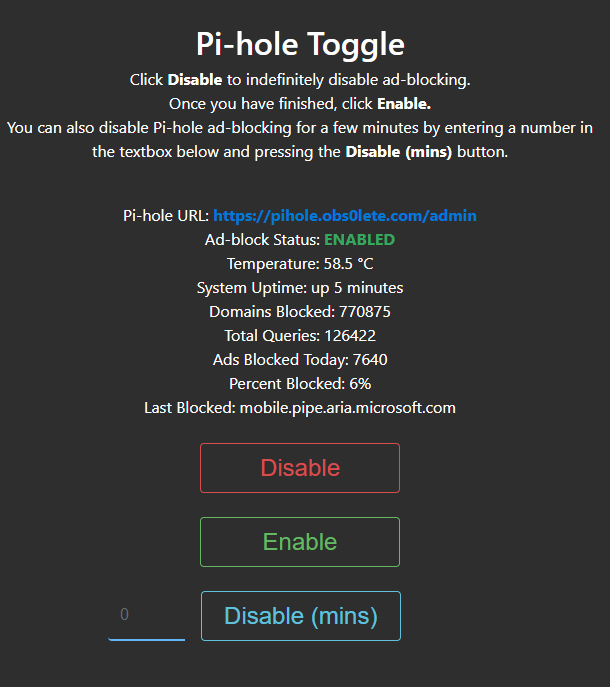
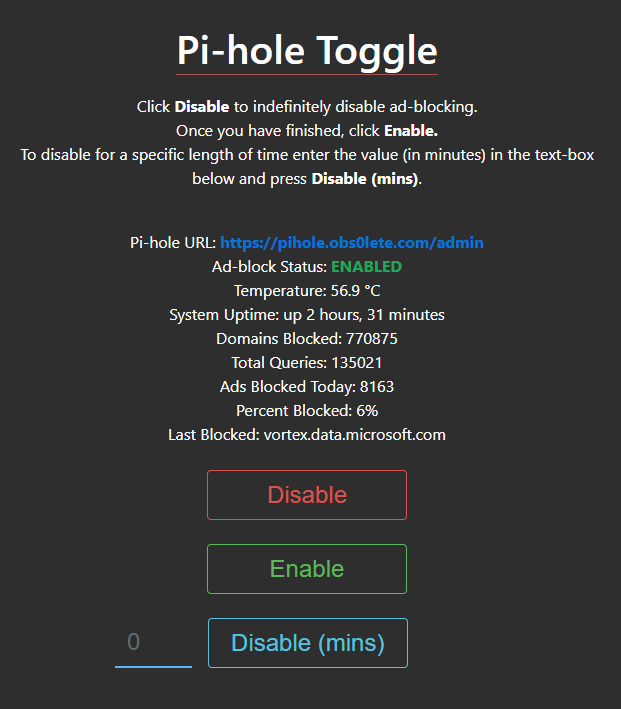
- Added some styling and cleaned-up the text a bit to be simpler.

diff --git a/css/style.css b/css/style.css
@@ -3,6 +3,11 @@ body {
   background-color: #2e2e2e;
 }
 
+.h1, h1 {
+border-bottom: 1px solid #a55151;
+display: inline;
+}
+
 .col-md-4 {
   margin: 0 auto;
   text-align: center;
@@ -23,13 +28,14 @@ input.form-control {
 max-width: 20% !important;
 background-color: #2e2e2e;
 border: none;
-border-bottom: 2px solid #5EB5FA;
+border-bottom: 2px solid #5eb5fa;
 color: #f5f5f5;
+border-radius: 0px;
+font-size: 1.5rem;
 }
 
 input.form-control:focus {
 background-color: #2e2e2e !important;
-font-size: 1.5rem;
 color: #f5f5f5;
 }
 

diff --git a/index.php b/index.php
@@ -34,7 +34,7 @@
                     alert("You must enter a nummber greater than 0.");
                     return false;
                 } else {
-                    alert("Pi-hole ad-blocking will be disabled for " + val + " minute(s).\nAfter this time, Pi-hole will re-enable ad-blocking by itself.");
+                    alert("Pi-hole ad-blocking will be disabled for " + val + " minute(s).\nPi-hole will re-enable ad-blocking automatically.\n\nYou can manually re-enable by pressing the Enable button.");
                 return true;
                 }
             }
@@ -47,14 +47,15 @@
                 <div class="col-md-4">
 
                     <!-- Pi-hole section -->
-                    <h2>
+                    <h1>
                         Pi-hole Toggle
-                    </h2>
+                    </h1>
+                    <br /><br />
                         Click <strong>Disable</strong> to indefinitely disable ad-blocking.
                         <br/>
                         Once you have finished, click <strong>Enable.</strong>
                         <br/>
-                        You can also disable Pi-hole ad-blocking for a few minutes by entering a number in the textbox below and pressing the <strong>Disable (mins)</strong> button.
+                        To disable for a specific length of time enter the value (in minutes) in the text-box below and press <strong>Disable (mins)</strong>.
                         <br/><br/>
                          <p></p>
 
